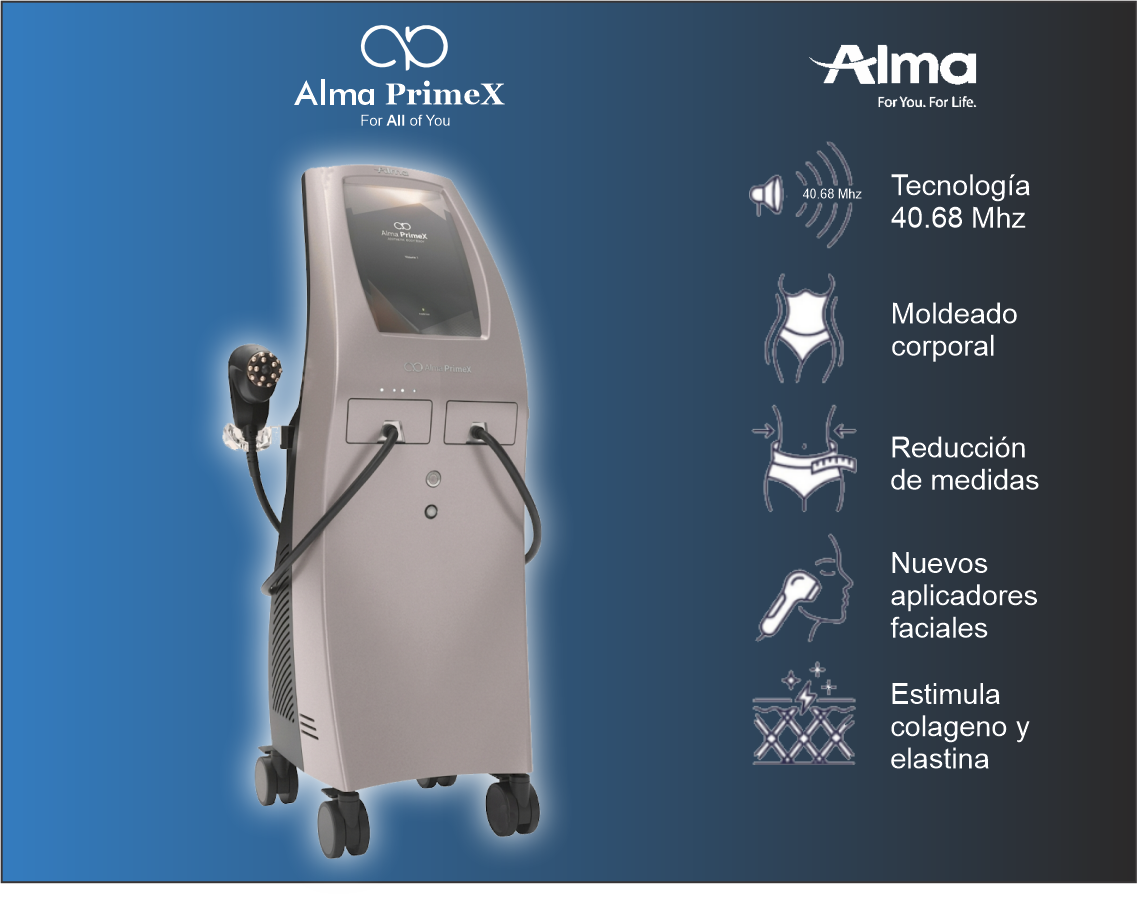
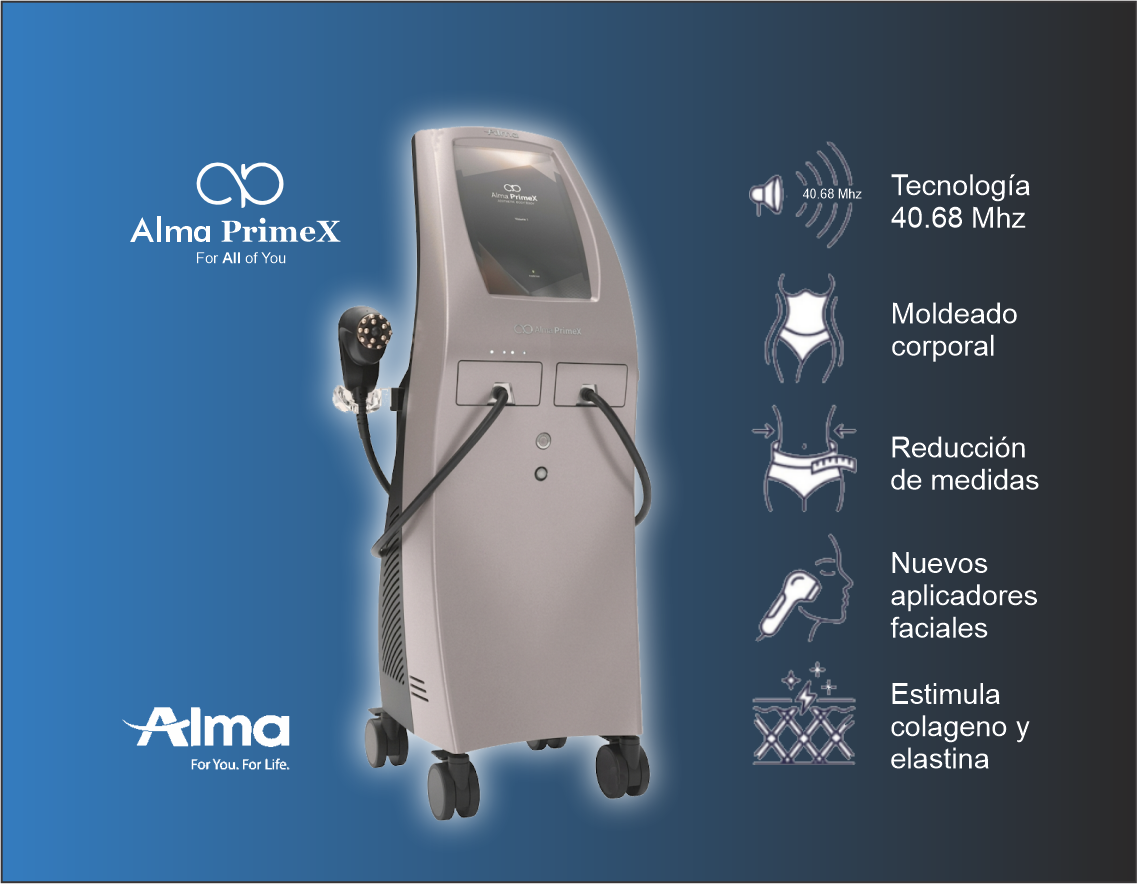
ajuste

diff --git a/components/LumeccaBlock.tsx b/components/LumeccaBlock.tsx
@@ -1,0 +1,279 @@
+"use client";
+
+import { useRef, useState } from "react";
+import Image from "next/image";
+import { Check, ChevronDown } from "lucide-react";
+import { AnimatePresence, motion } from "framer-motion";
+import YouTubeEmbed from "@/components/YouTubeEmbed";
+
+const YOUTUBE_ID = "7gyiV0S8fSU";
+
+const DETAILS = [
+  "Tecnología InMode con pulsos de luz optimizados",
+  "Tratamiento eficaz de manchas solares y rosácea",
+  "Sesiones rápidas con resultados visibles desde la primera aplicación",
+  "Protocolos personalizados según fototipo cutáneo",
+];
+
+const TREATS = [
+  "Manchas marrones y rojas",
+  "Pecas y daño solar",
+  "Enrojecimiento y rosácea",
+  "Telangiectasias y arañas vasculares",
+  "Textura irregular y poros dilatados",
+];
+
+const SPECS = [
+  { label: "Longitud de onda", value: "580 SR / 580–1200 nm" },
+  { label: "Tamaño del punto", value: "8 mm" },
+  { label: "Fluencia", value: "5–30 J/cm²" },
+  { label: "Duración del pulso", value: "1,5–15 ms" },
+  { label: "Enfriamiento por pulso", value: "15–22 °C" },
+  { label: "Frecuencia de repetición", value: "1 pps" },
+];
+
+const BENEFITS = [
+  "Suaviza líneas finas y mejora la textura de la piel",
+  "Trata rosácea, enrojecimiento y lesiones vasculares superficiales",
+  "Reduce manchas, pecas e hiperpigmentación por sol",
+  "Estimula colágeno para mayor luminosidad y firmeza",
+  "Aplicable en rostro, cuello, escote, manos y más zonas",
+  "Sesiones cómodas gracias al enfriamiento activo del aplicador",
+];
+
+function SectionBadge({ title }: { title: string }) {
+  return (
+    <div className="flex justify-center sm:justify-start">
+      <div className="rounded-full border-2 border-luxury-accent bg-luxury-dark px-6 py-2.5 shadow-serenity">
+        <h3 className="font-sans text-[0.68rem] font-semibold uppercase tracking-[0.2em] text-luxury-accent sm:text-xs">
+          {title}
+        </h3>
+      </div>
+    </div>
+  );
+}
+
+export default function LumeccaBlock() {
+  const [expanded, setExpanded] = useState(false);
+  const titleRef = useRef<HTMLHeadingElement>(null);
+
+  const handleCollapse = () => {
+    setExpanded(false);
+    window.setTimeout(() => {
+      titleRef.current?.scrollIntoView({ behavior: "smooth", block: "start" });
+    }, 100);
+  };
+
+  return (
+    <article>
+      <div className="grid gap-10 lg:grid-cols-2 lg:items-start lg:gap-16">
+        <div className="order-1 lg:order-1">
+          <div className="flex flex-col lg:aspect-[4/3] lg:min-h-0">
+            <div className="shrink-0">
+              <p className="text-xs font-medium uppercase tracking-[0.2em] text-luxury-accent">
+                IPL de alta potencia para manchas y vascular
+              </p>
+              <h2
+                ref={titleRef}
+                className="mt-2 scroll-mt-28 font-serif text-3xl text-luxury-dark md:scroll-mt-32 md:text-4xl"
+              >
+                Lumecca (InMode)
+              </h2>
+              <p className="mt-3 text-sm leading-snug text-luxury-text lg:mt-4 lg:text-[0.9rem] lg:leading-relaxed">
+                IPL (Luz Pulsada Intensa) de alta potencia para el tratamiento de
+                lesiones vasculares y pigmentarias (manchas) con resultados en
+                menos sesiones.
+              </p>
+            </div>
+
+            <ul className="mt-4 space-y-2.5 lg:mt-5 lg:flex-1 lg:content-center">
+              {DETAILS.map((detail) => (
+                <li
+                  key={detail}
+                  className="flex gap-3 text-sm leading-relaxed text-luxury-text/90"
+                >
+                  <span className="mt-2 h-1 w-1 shrink-0 rounded-full bg-luxury-accent" />
+                  {detail}
+                </li>
+              ))}
+            </ul>
+          </div>
+
+          <button
+            type="button"
+            onClick={() => setExpanded((open) => !open)}
+            aria-expanded={expanded}
+            className="btn-pill-outline mt-6 inline-flex items-center gap-2 lg:mt-8"
+          >
+            {expanded ? "Menos información" : "Más información"}
+            <ChevronDown
+              size={18}
+              className={`transition-transform duration-300 ${expanded ? "rotate-180" : ""}`}
+            />
+          </button>
+        </div>
+
+        <div className="relative order-2 aspect-[4/3] w-full overflow-hidden rounded-serenity-lg border border-luxury-accent/15 bg-luxury-dark shadow-serenity lg:order-2">
+          <Image
+            src="/equipos/lumecca.png"
+            alt="Equipo Lumecca InMode"
+            fill
+            className="object-contain object-center"
+            sizes="(max-width: 1024px) 100vw, 50vw"
+          />
+        </div>
+      </div>
+
+      <AnimatePresence initial={false}>
+        {expanded && (
+          <motion.div
+            key="lumecca-expanded"
+            initial={{ height: 0, opacity: 0 }}
+            animate={{ height: "auto", opacity: 1 }}
+            exit={{ height: 0, opacity: 0 }}
+            transition={{ duration: 0.4, ease: [0.4, 0, 0.2, 1] }}
+            className="overflow-hidden"
+          >
+            <div className="mt-12 border-b-2 border-luxury-dark pb-10 md:mt-16 md:pb-12">
+              <div className="overflow-hidden rounded-serenity-lg border-2 border-luxury-accent/25 bg-luxury-card/40">
+                <div className="flex items-center justify-between border-b border-luxury-accent/25 bg-luxury-dark px-5 py-3 sm:px-8">
+                  <span className="text-[0.65rem] font-semibold uppercase tracking-[0.22em] text-luxury-accent sm:text-xs">
+                    Lumecca — By InMode
+                  </span>
+                </div>
+
+                <div className="space-y-14 p-5 sm:p-8 md:space-y-16 md:p-10">
+                  <section>
+                    <SectionBadge title="Cómo funciona Lumecca" />
+                    <div className="mt-8 overflow-hidden rounded-serenity-lg border border-luxury-accent/20 bg-luxury-bg shadow-serenity">
+                      <div className="space-y-5 p-6 text-base leading-relaxed text-luxury-text sm:p-8">
+                        <p>
+                          El fotofacial IPL con Lumecca es un tratamiento de luz
+                          pulsada intensa que se dirige a problemas de pigmentación
+                          como manchas marrones, daño solar, puntos rojos y rosácea.
+                          La luz atraviesa la epidermis, actúa sobre las células
+                          productoras de pigmento y ayuda a dispersir la pigmentación
+                          desigual.
+                        </p>
+                        <p>
+                          Lumecca emite múltiples longitudes de onda en la piel y
+                          actúa de forma eficaz sobre la melanina y la hemoglobina
+                          en capas superficiales. La energía lumínica se convierte
+                          en calor, fragmenta el exceso de pigmento y estimula la
+                          renovación cutánea, revelando una piel más luminosa y
+                          uniforme.
+                        </p>
+                        <p>
+                          Puede aplicarse en rostro, cuello, escote, hombros,
+                          espalda, brazos y piernas. También es una opción eficaz
+                          para venitas rotas y arañas vasculares. Con Lumecca-I,
+                          además, se pueden tratar zonas delicadas como el contorno
+                          periorbital con precisión y mínima molestia.
+                        </p>
+                      </div>
+                    </div>
+                  </section>
+
+                  <section>
+                    <SectionBadge title="Especificaciones técnicas" />
+                    <div className="mt-8 grid gap-8 lg:grid-cols-2 lg:items-start">
+                      <YouTubeEmbed
+                        videoId={YOUTUBE_ID}
+                        title="Video sobre Lumecca InMode"
+                        className="max-w-none"
+                      />
+                      <dl className="grid gap-x-8 gap-y-4 rounded-serenity-lg border border-luxury-accent/20 bg-luxury-bg p-6 sm:grid-cols-2 sm:p-8 lg:grid-cols-1">
+                        {SPECS.map(({ label, value }) => (
+                          <div key={label}>
+                            <dt className="text-[0.7rem] font-semibold uppercase tracking-[0.14em] text-luxury-dark">
+                              {label}
+                            </dt>
+                            <dd className="mt-1.5 text-sm leading-relaxed text-luxury-text/90">
+                              {value}
+                            </dd>
+                          </div>
+                        ))}
+                      </dl>
+                    </div>
+                  </section>
+
+                  <section>
+                    <SectionBadge title="¿Qué trata el fotofacial IPL?" />
+                    <ul className="mt-8 grid gap-3 sm:grid-cols-2">
+                      {TREATS.map((item) => (
+                        <li
+                          key={item}
+                          className="flex items-center gap-3 rounded-serenity-lg border border-luxury-accent/20 bg-luxury-bg px-4 py-3 text-sm leading-relaxed text-luxury-text"
+                        >
+                          <span className="flex h-7 w-7 shrink-0 items-center justify-center rounded-full bg-luxury-dark text-white">
+                            <Check size={14} strokeWidth={3} />
+                          </span>
+                          {item}
+                        </li>
+                      ))}
+                    </ul>
+                  </section>
+
+                  <section>
+                    <SectionBadge title="IPL vs láser" />
+                    <div className="mt-8 space-y-4 rounded-serenity-lg border border-luxury-accent/20 bg-luxury-bg p-6 text-sm leading-relaxed text-luxury-text sm:p-8 sm:text-base">
+                      <p>
+                        Tanto el IPL como los tratamientos con láser pueden
+                        mejorar diversos problemas de la piel. La principal
+                        diferencia es que la terapia IPL suele ser más suave y
+                        requiere más sesiones que el láser para resultados
+                        comparables.
+                      </p>
+                      <p>
+                        El láser es más intenso, la recuperación puede ser más
+                        prolongada y logra cambios más notables en menos
+                        procedimientos. Sin embargo, a diferencia del láser, un
+                        dispositivo IPL emite más de una longitud de onda de luz
+                        pulsada, lo que permite tratar varias condiciones al mismo
+                        tiempo.
+                      </p>
+                      <p>
+                        Lumecca destaca por ofrecer hasta 3–4 veces más energía
+                        efectiva en el rango crítico de 515–620 nm, con mayor
+                        confort gracias a su punta de zafiro con enfriamiento
+                        activo y sesiones más breves que un IPL convencional.
+                      </p>
+                    </div>
+                  </section>
+
+                  <section>
+                    <SectionBadge title="Conoce los beneficios" />
+                    <ul className="mt-8 grid gap-3 sm:grid-cols-2">
+                      {BENEFITS.map((benefit) => (
+                        <li
+                          key={benefit}
+                          className="flex items-center gap-3 rounded-full border border-luxury-accent/35 bg-white px-4 py-3 text-sm leading-snug text-luxury-text shadow-serenity"
+                        >
+                          <span className="flex h-7 w-7 shrink-0 items-center justify-center rounded-full bg-luxury-dark text-white">
+                            <Check size={14} strokeWidth={3} />
+                          </span>
+                          {benefit}
+                        </li>
+                      ))}
+                    </ul>
+                  </section>
+                </div>
+              </div>
+
+              <div className="flex justify-center pt-8 md:pt-10">
+                <button
+                  type="button"
+                  onClick={handleCollapse}
+                  aria-expanded={expanded}
+                  className="btn-pill-dark inline-flex items-center gap-2"
+                >
+                  ▲ Menos información
+                </button>
+              </div>
+            </div>
+          </motion.div>
+        )}
+      </AnimatePresence>
+    </article>
+  );
+}

diff --git a/components/Technology.tsx b/components/Technology.tsx
@@ -1,26 +1,9 @@
-import Image from "next/image";
 import { Award, ShieldCheck } from "lucide-react";
 import Logo from "@/components/Logo";
 import AlmaPrimeXBlock from "@/components/AlmaPrimeXBlock";
+import LumeccaBlock from "@/components/LumeccaBlock";
 import Morpheus8Block from "@/components/Morpheus8Block";
 import { CLINIC } from "@/lib/data";
-
-const TECHNOLOGIES = [
-  {
-    name: "Lumecca (InMode)",
-    tagline: "IPL de alta potencia para manchas y vascular",
-    description:
-      "IPL (Luz Pulsada Intensa) de alta potencia para el tratamiento de lesiones vasculares y pigmentarias (manchas) con resultados en menos sesiones.",
-    details: [
-      "Tecnología InMode con pulsos de luz optimizados",
-      "Tratamiento eficaz de manchas solares y rosácea",
-      "Sesiones rápidas con resultados visibles desde la primera aplicación",
-      "Protocolos personalizados según fototipo cutáneo",
-    ],
-    image:
-      "https://images.unsplash.com/photo-1576091160399-112ba8d25d1d?w=800&h=600&fit=crop",
-  },
-];
 
 const CERTIFICATIONS = [
   {
@@ -74,51 +57,7 @@ export default function Technology({ variant = "section" }: TechnologyProps) {
 
         <div className="space-y-16 md:space-y-24">
           <Morpheus8Block />
-
-          {TECHNOLOGIES.map((tech, index) => (
-            <article
-              key={tech.name}
-              className={`grid items-center gap-10 lg:grid-cols-2 lg:gap-16 ${
-                index % 2 === 0 ? "lg:[&>div:first-child]:order-2" : ""
-              }`}
-            >
-              <div className="relative aspect-[4/3] overflow-hidden rounded-serenity-lg border border-luxury-accent/15 shadow-serenity">
-                <Image
-                  src={tech.image}
-                  alt={tech.name}
-                  fill
-                  className="object-cover"
-                  sizes="(max-width: 1024px) 100vw, 50vw"
-                />
-              </div>
-
-              <div>
-                <p className="text-xs font-medium uppercase tracking-[0.2em] text-luxury-accent">
-                  {tech.tagline}
-                </p>
-                <h2 className="mt-3 font-serif text-3xl text-luxury-dark md:text-4xl">
-                  {tech.name}
-                </h2>
-                <p className="mt-6 text-base leading-relaxed text-luxury-text">
-                  {tech.description}
-                </p>
-                {isPage && (
-                  <ul className="mt-8 space-y-3">
-                    {tech.details.map((detail) => (
-                      <li
-                        key={detail}
-                        className="flex gap-3 text-sm leading-relaxed text-luxury-text/90"
-                      >
-                        <span className="mt-1.5 h-1 w-1 shrink-0 rounded-full bg-luxury-accent" />
-                        {detail}
-                      </li>
-                    ))}
-                  </ul>
-                )}
-              </div>
-            </article>
-          ))}
-
+          <LumeccaBlock />
           <AlmaPrimeXBlock />
         </div>
 